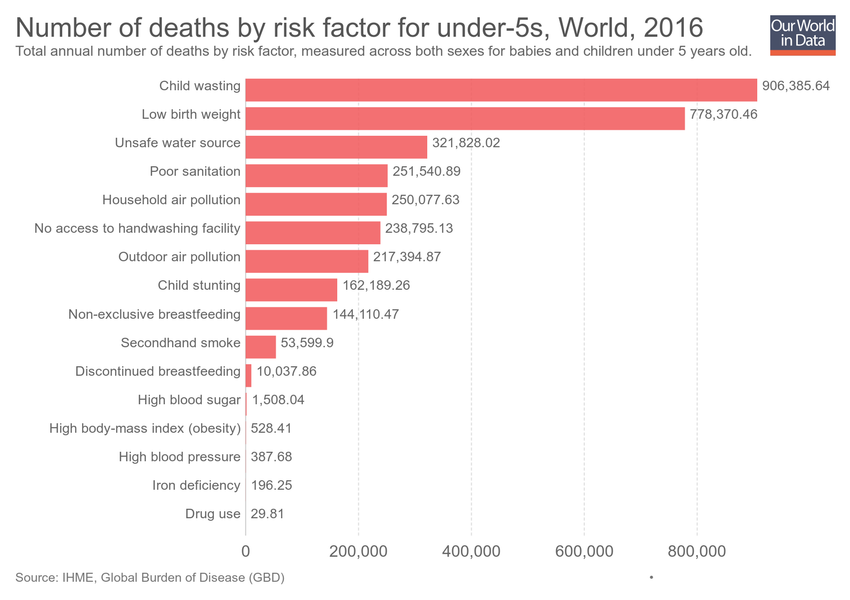
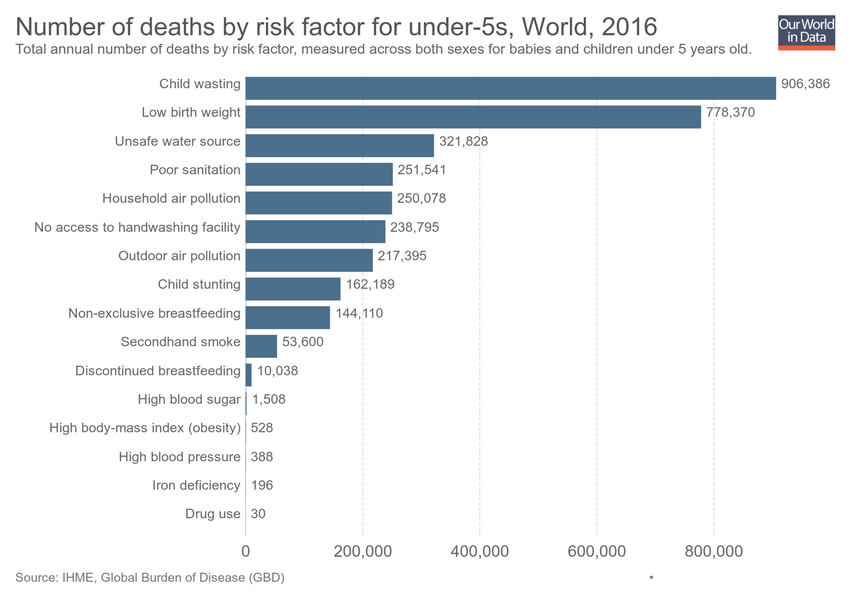
Updating chart deaths-by-risk-under5s

diff --git a/grapher/deaths-by-risk-under5s.html b/grapher/deaths-by-risk-under5s.html
@@ -1,4 +1,4 @@
-<!doctype html><html><head><meta name="viewport" content="width=device-width, initial-scale=1" /><title>Number of deaths by risk factor for under-5s - Our World in Data</title><meta name="description" content="Total annual number of deaths by risk factor, measured across both sexes for babies and children under 5 years old." /><link rel="canonical" href="https://ourworldindata.org/grapher/deaths-by-risk-under5s" /><meta property="fb:app_id" content="1149943818390250" /><meta property="og:url" content="https://ourworldindata.org/grapher/deaths-by-risk-under5s" /><meta property="og:title" content="Number of deaths by risk factor for under-5s" /><meta property="og:description" content="Total annual number of deaths by risk factor, measured across both sexes for babies and children under 5 years old." /><meta property="og:image" content="https://ourworldindata.org/grapher/exports/deaths-by-risk-under5s.png?v=2" /><meta property="og:image:width" content="850" /><meta property="og:image:height" content="600" /><meta property="og:site_name" content="Our World in Data" /><meta name="twitter:card" content="summary_large_image" /><meta name="twitter:site" content="@OurWorldInData" /><meta name="twitter:creator" content="@OurWorldInData" /><meta name="twitter:title" content="Number of deaths by risk factor for under-5s" /><meta name="twitter:description" content="Total annual number of deaths by risk factor, measured across both sexes for babies and children under 5 years old." /><meta name="twitter:image" content="https://ourworldindata.org/grapher/exports/deaths-by-risk-under5s.png?v=2" /><style>
+<!doctype html><html><head><meta name="viewport" content="width=device-width, initial-scale=1" /><title>Number of deaths by risk factor for under-5s - Our World in Data</title><meta name="description" content="Total annual number of deaths by risk factor, measured across both sexes for babies and children under 5 years old." /><link rel="canonical" href="https://ourworldindata.org/grapher/deaths-by-risk-under5s" /><meta property="fb:app_id" content="1149943818390250" /><meta property="og:url" content="https://ourworldindata.org/grapher/deaths-by-risk-under5s" /><meta property="og:title" content="Number of deaths by risk factor for under-5s" /><meta property="og:description" content="Total annual number of deaths by risk factor, measured across both sexes for babies and children under 5 years old." /><meta property="og:image" content="https://ourworldindata.org/grapher/exports/deaths-by-risk-under5s.png?v=3" /><meta property="og:image:width" content="850" /><meta property="og:image:height" content="600" /><meta property="og:site_name" content="Our World in Data" /><meta name="twitter:card" content="summary_large_image" /><meta name="twitter:site" content="@OurWorldInData" /><meta name="twitter:creator" content="@OurWorldInData" /><meta name="twitter:title" content="Number of deaths by risk factor for under-5s" /><meta name="twitter:description" content="Total annual number of deaths by risk factor, measured across both sexes for babies and children under 5 years old." /><meta name="twitter:image" content="https://ourworldindata.org/grapher/exports/deaths-by-risk-under5s.png?v=3" /><style>
         html, body {
             height: 100%;
             margin: 0;
@@ -20,8 +20,8 @@
         }
     </style><noscript><style>
                     figure { display: none !important; }
-                </style></noscript><link rel="stylesheet" href="https://ourworldindata.org/grapher/assets/commons.bundle.dcbbe53805c487d5e57617b10ac73a8a.css" /><link rel="preload" href="/grapher/data/variables/64050+64045+63905+64537+64306+63887+64282+64777+64764+64803+64790+64354+64341+64319+63900+64250.json?v=2" as="fetch" crossorigin /></head><body class="singleChart"><figure data-grapher-src="/grapher/deaths-by-risk-under5s"></figure><noscript id="fallback"><img src="/grapher/exports/deaths-by-risk-under5s.svg" /><p>Interactive visualization requires JavaScript</p></noscript><script src="https://cdn.polyfill.io/v2/polyfill.min.js?features=es6,fetch"></script><script src="https://ourworldindata.org/grapher/assets/commons.bundle.da523acc49807a06a11f.js"></script><script src="https://ourworldindata.org/grapher/assets/charts.bundle.da523acc49807a06a11f.js"></script><script>
-        var jsonConfig = {"id":1693,"map":{"projection":"World","colorSchemeLabels":[],"colorSchemeValues":[],"defaultProjection":"World","colorSchemeMinValue":0,"customNumericColors":[],"customCategoryColors":{},"customCategoryLabels":{},"customHiddenCategories":{}},"tab":"chart","slug":"deaths-by-risk-under5s","type":"DiscreteBar","title":"Number of deaths by risk factor for under-5s","xAxis":{"scaleType":"linear"},"yAxis":{"min":0,"scaleType":"linear"},"version":2,"subtitle":"Total annual number of deaths by risk factor, measured across both sexes for babies and children under 5 years old.","hasMapTab":false,"originUrl":"","stackMode":"absolute","dimensions":[{"display":{"name":"Discontinued breastfeeding","unit":"deaths"},"property":"y","variableId":64050,"numDecimalPlaces":0},{"display":{"name":"Non-exclusive breastfeeding","unit":"deaths"},"property":"y","variableId":64045,"numDecimalPlaces":0},{"display":{"name":"Child stunting","unit":"deaths"},"property":"y","variableId":63905,"numDecimalPlaces":0},{"display":{"name":"Low birth weight","unit":"deaths"},"property":"y","variableId":64537,"numDecimalPlaces":0},{"display":{"name":"Drug use","unit":"deaths"},"property":"y","variableId":64306,"numDecimalPlaces":0},{"display":{"name":"No access to handwashing facility","unit":"deaths"},"property":"y","variableId":63887,"numDecimalPlaces":0},{"display":{"name":"Secondhand smoke","unit":"deaths"},"property":"y","variableId":64282,"numDecimalPlaces":0},{"display":{"name":"Poor sanitation","unit":"deaths"},"property":"y","variableId":64777,"numDecimalPlaces":0},{"display":{"name":"Unsafe water source","unit":"deaths"},"property":"y","variableId":64764,"numDecimalPlaces":0},{"display":{"name":"Household air pollution","unit":"deaths"},"property":"y","variableId":64803,"numDecimalPlaces":0},{"display":{"name":"Outdoor air pollution","unit":"deaths"},"property":"y","variableId":64790,"numDecimalPlaces":0},{"display":{"name":"High body-mass index (obesity)","unit":"deaths"},"property":"y","variableId":64354,"numDecimalPlaces":0},{"display":{"name":"High blood pressure","unit":"deaths"},"property":"y","variableId":64341,"numDecimalPlaces":0},{"display":{"name":"High blood sugar","unit":"deaths"},"property":"y","variableId":64319,"numDecimalPlaces":0},{"display":{"name":"Child wasting","unit":"deaths"},"property":"y","variableId":63900,"numDecimalPlaces":0},{"display":{"name":"Iron deficiency","unit":"deaths"},"property":"y","variableId":64250,"numDecimalPlaces":0}],"sourceDesc":"IHME, Global Burden of Disease (GBD)","hasChartTab":true,"isPublished":true,"selectedData":[{"index":0,"entityId":355},{"index":1,"entityId":355},{"index":10,"entityId":355},{"index":11,"entityId":355},{"index":12,"entityId":355},{"index":13,"entityId":355},{"index":14,"entityId":355},{"index":15,"entityId":355},{"index":2,"entityId":355},{"index":3,"entityId":355},{"index":4,"entityId":355},{"index":5,"entityId":355},{"index":6,"entityId":355},{"index":7,"entityId":355},{"index":8,"entityId":355},{"index":9,"entityId":355}],"internalNotes":"","addCountryMode":"change-country"};
+                </style></noscript><link rel="stylesheet" href="https://ourworldindata.org/grapher/assets/commons.bundle.dcbbe53805c487d5e57617b10ac73a8a.css" /><link rel="preload" href="/grapher/data/variables/64050+64045+63905+64537+64306+63887+64282+64777+64764+64803+64790+64354+64341+64319+63900+64250.json?v=3" as="fetch" crossorigin /></head><body class="singleChart"><figure data-grapher-src="/grapher/deaths-by-risk-under5s"></figure><noscript id="fallback"><img src="/grapher/exports/deaths-by-risk-under5s.svg" /><p>Interactive visualization requires JavaScript</p></noscript><script src="https://cdn.polyfill.io/v2/polyfill.min.js?features=es6,fetch"></script><script src="https://ourworldindata.org/grapher/assets/commons.bundle.da523acc49807a06a11f.js"></script><script src="https://ourworldindata.org/grapher/assets/charts.bundle.da523acc49807a06a11f.js"></script><script>
+        var jsonConfig = {"id":1693,"map":{"projection":"World","colorSchemeLabels":[],"colorSchemeValues":[],"colorSchemeMinValue":0,"customNumericColors":[],"customCategoryColors":{},"customCategoryLabels":{},"customHiddenCategories":{}},"tab":"chart","slug":"deaths-by-risk-under5s","type":"DiscreteBar","title":"Number of deaths by risk factor for under-5s","xAxis":{"scaleType":"linear"},"yAxis":{"min":0,"scaleType":"linear"},"version":3,"subtitle":"Total annual number of deaths by risk factor, measured across both sexes for babies and children under 5 years old.","hasMapTab":false,"originUrl":"","stackMode":"absolute","dimensions":[{"display":{"name":"Discontinued breastfeeding","unit":"deaths","numDecimalPlaces":0},"property":"y","variableId":64050},{"display":{"name":"Non-exclusive breastfeeding","unit":"deaths","numDecimalPlaces":0},"property":"y","variableId":64045},{"display":{"name":"Child stunting","unit":"deaths","numDecimalPlaces":0},"property":"y","variableId":63905},{"display":{"name":"Low birth weight","unit":"deaths","numDecimalPlaces":0},"property":"y","variableId":64537},{"display":{"name":"Drug use","unit":"deaths","numDecimalPlaces":0},"property":"y","variableId":64306},{"display":{"name":"No access to handwashing facility","unit":"deaths","numDecimalPlaces":0},"property":"y","variableId":63887},{"display":{"name":"Secondhand smoke","unit":"deaths","numDecimalPlaces":0},"property":"y","variableId":64282},{"display":{"name":"Poor sanitation","unit":"deaths","numDecimalPlaces":0},"property":"y","variableId":64777},{"display":{"name":"Unsafe water source","unit":"deaths","numDecimalPlaces":0},"property":"y","variableId":64764},{"display":{"name":"Household air pollution","unit":"deaths","numDecimalPlaces":0},"property":"y","variableId":64803},{"display":{"name":"Outdoor air pollution","unit":"deaths","numDecimalPlaces":0},"property":"y","variableId":64790},{"display":{"name":"High body-mass index (obesity)","unit":"deaths","numDecimalPlaces":0},"property":"y","variableId":64354},{"display":{"name":"High blood pressure","unit":"deaths","numDecimalPlaces":0},"property":"y","variableId":64341},{"display":{"name":"High blood sugar","unit":"deaths","numDecimalPlaces":0},"property":"y","variableId":64319},{"display":{"name":"Child wasting","unit":"deaths","numDecimalPlaces":0},"property":"y","variableId":63900},{"display":{"name":"Iron deficiency","unit":"deaths","numDecimalPlaces":0},"property":"y","variableId":64250}],"sourceDesc":"IHME, Global Burden of Disease (GBD)","hasChartTab":true,"isPublished":true,"selectedData":[{"index":0,"entityId":355},{"index":1,"entityId":355},{"index":10,"entityId":355},{"index":11,"entityId":355},{"index":12,"entityId":355},{"index":13,"entityId":355},{"index":14,"entityId":355},{"index":15,"entityId":355},{"index":2,"entityId":355},{"index":3,"entityId":355},{"index":4,"entityId":355},{"index":5,"entityId":355},{"index":6,"entityId":355},{"index":7,"entityId":355},{"index":8,"entityId":355},{"index":9,"entityId":355}],"internalNotes":"","addCountryMode":"change-country"};
         var figure = document.getElementsByTagName("figure")[0];
         try {
             window.App = {};
